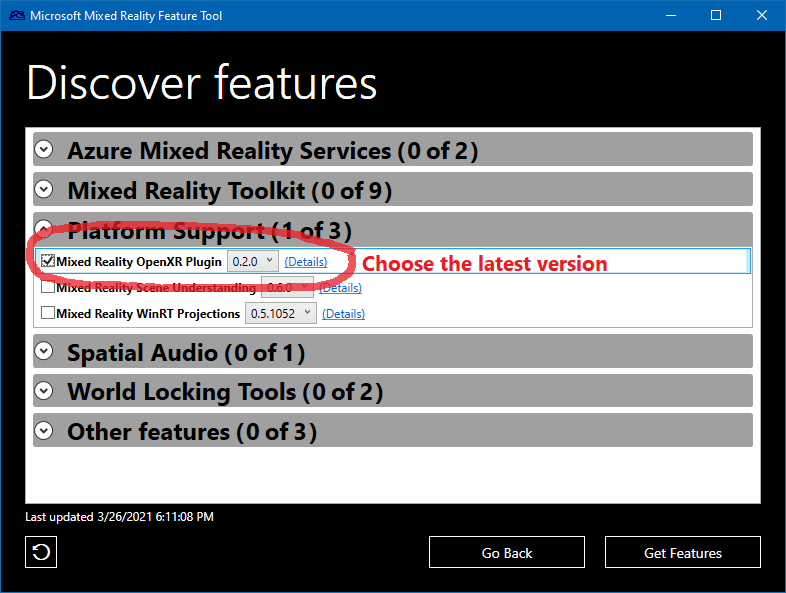
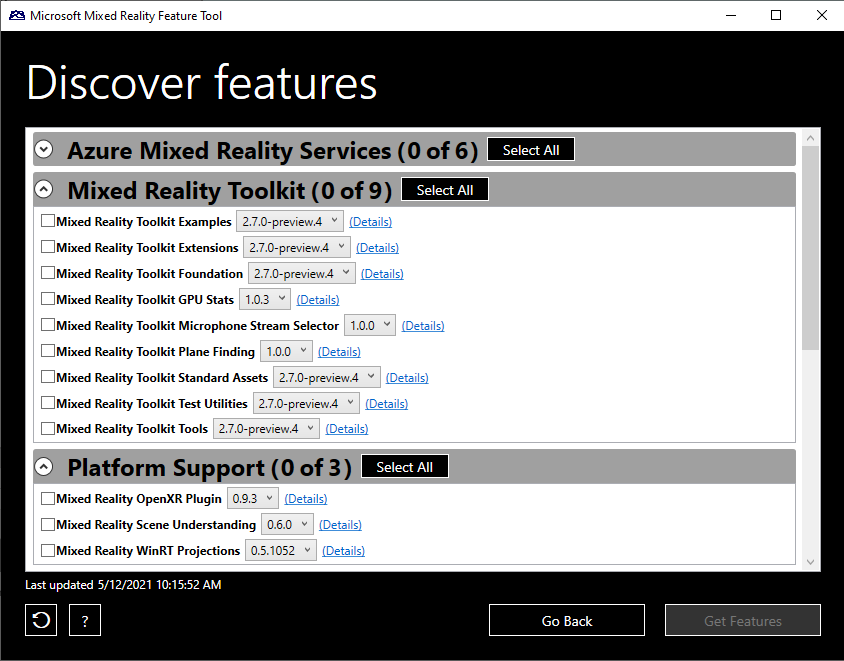
Added open XR settings

diff --git a/mixed-reality-docs/mr-dev-docs/develop/unity/tutorials/includes/importing-mrtk.md b/mixed-reality-docs/mr-dev-docs/develop/unity/tutorials/includes/importing-mrtk.md
@@ -106,17 +106,89 @@ When you have located your project's folder, click the Open button to return to 
 > [!Important]
 > The Mixed Reality Feature Tool performs validation to ensure that it has been directed to a Unity project folder. The folder must contain Assets, Packages and Project Settings folders.
 
-Features are grouped by category to make things easier to find, click on **Mixed Reality Toolkit** dropdown to find packages relating to the Mixed Reality Toolkit.
+Features are grouped by category to make things easier to find, click on **Mixed Reality Toolkit** dropdown to find packages relating to the Mixed Reality Toolkit and click on **Platform Support** dropdown to find packages relating various supporting platforms.
 
-![MixedRealityFeatureTool Discover Features](../images/mr-learning-base/base-02-section4-step1-4.png)
+![MixedRealityFeatureTool Discover Features](../images/mr-learning-base/base-02-section4-step1-4-openxr.png)
 
-check the **Mixed Reality Toolkit Foundation**, and click on the dropdown next to it to select MRTK 2.7.0, then click on **Get features** button to download the selected packages.
+check the **Mixed Reality Toolkit Foundation** and click on the dropdown next to it to select **MRTK 2.7.0**, also check the **Mixed Reality OpenXR Plugin** and click on the dropdown next to it to select most recent version available, then click on **Get features** button to download the selected packages.
 
-![MixedRealityFeatureTool Open MixedReality](../images/mr-learning-base/base-02-section4-step1-5.png)
+![MixedRealityFeatureTool Open MixedReality](../images/mr-learning-base/base-02-section4-step1-5-openxr.png)
 
 Next click on the **Validate** button to validate the selected package, you will get a popup with message **No validation issues were detected** click on **OK** to close the popup and click on **Import** button.
 
 ![MixedRealityFeatureTool Select required package](../images/mr-learning-base/base-02-section4-step1-6.png)
+
+Click on **Approve** Button to add the **Mixed Reality Toolkit** into the project.
+
+![MixedRealityFeatureTool Validate package](../images/mr-learning-base/base-02-section4-step1-7.png)
+
+## Configuring the Unity project
+
+After Unity has finished importing the package from the previous section, a warning message appears to restart the unity editor to enable to backends for new plugin system, click on **Yes**
+
+![Unity Restart Option](../images/mr-learning-base/base-02-section5-step1-1-openxr.png)
+
+Once the Unity restarts MRTK Project Configurator window should appear. If it doesn't, you can manually open it by going to **Mixed Reality** > **Toolkit** > **Utilities** > **Configure Project for MRTK**:
+
+![Open MRTK project configurator window](../images/mr-learning-base/base-02-section5-step1-2-openxr.png)
+
+Click on **Unity OpenXR Plugin** to Enable XR Plugin Management and add its required packages into your project.
+
+![Add Unity OpenXR Plugin ](../images/mr-learning-base/base-02-section5-step1-3-openxr.png)
+
+this imports required unity packages for XR Plugin Management, once done click on **Show XR Plug-In Management Settings** in MRTK project Configurator.
+
+![Show XR Plug-In Management Settings ](../images/mr-learning-base/base-02-section5-step1-4-openxr.png)
+
+This opens **Project Settings window**,
+
+![Project Settings Window](../images/mr-learning-base/base-02-section5-step1-5-openxr.png)
+
+In the Project Settings window  under **XR Plug-in Management** Ensure that you are in Universal Windows Platform settings also Ensure **Initialize XR on Startup** is checked, then check **Open XR** checkbox and **Microsoft HoloLens feature set** checkbox to enable them.
+
+![Project Settings Window](../images/mr-learning-base/base-02-section5-step1-6-openxr.png)
+
+If you see a red warning icon next to **OpenXR Plugin**, click the icon and select **Fix all** before continuing. The Unity Editor may need to restart itself for the changes to take effect.
+
+![Project Settings Window](../images/mr-learning-base/base-02-section5-step1-7-openxr.png)
+
+once all issues are fixed close the **Project Settings** window.
+
+In the menu bar, navigate to **Mixed Reality**> **OpenXR** > **Apply recommended project settings for HoloLens 2** to get better app performance.
+
+![Project Settings Window](../images/mr-learning-base/base-02-section5-step1-8-openxr.png)
+
+Use the Unity menu to open MRTK Project Configurator, In the MRTK Project Configurator window, click on **next**, then click the **Apply** button to apply the settings:
+
+![Project Settings Window](../images/mr-learning-base/base-02-section5-step1-9-openxr.png)
+
+
+Once you click on Apply, Unity will try to restart for the input system to take into effect, click on **Apply** to restart the Unity editor
+
+![Project Settings Window](../images/mr-learning-base/base-02-section5-step1-10-openxr.png)
+
+Once the Unity restarts open MRTK Project Configurator from the unity menu and Click on **Next** then click on **Done** finish the Unity project configuration for OpenXR.
+
+### Configure additional project settings
+
+In the Unity menu, select **Edit** > **Project Settings...** to open the Project Settings window:
+
+In the Project Settings window, select **XR Plug-in Management** > **OpenXR**, then use the **Depth Submission Mode** dropdown to select **Depth 16-bit**:
+
+![Unity Enable 16 Depth](../images/mr-learning-base/base-02-section5-step2-1-openxr.png)
+
+> [!TIP]
+> Reducing the Depth Format to 16-bit is optional but my help improve graphics performance in your project. To learn more about this topic, you can refer to the <a href="/windows/mixed-reality/mrtk-unity/performance/perf-getting-started#single-pass-instanced-rendering" target="_blank">Depth buffer sharing (HoloLens)</a> section of MRTK's Performance documentation.
+
+In the Project Settings window, select **Player** > **Publishing Settings**, then in the **Package name** field, enter a suitable name, for example, _MRTKTutorials-GettingStarted_:
+
+![Unity Publishing Settings. Package name configured](../images/mr-learning-base/base-02-section5-step2-2.png)
+
+> [!NOTE]
+> The 'Package name' is the unique identifier for the app. You should change this identifier before deploying the app to avoid overwriting previously installed apps.
+
+> [!TIP]
+> The 'Product Name' is the name displayed in the HoloLens Start menu. To make the app easier to locate during development, add an underscore in front of the name to sort it to the top.
 
 # [Legacy WSA](#tab/wsa)
 Once **MixedRealityFeatureTool** is opened click on **Start** to get started with Mixed Reality Feature Tool.
